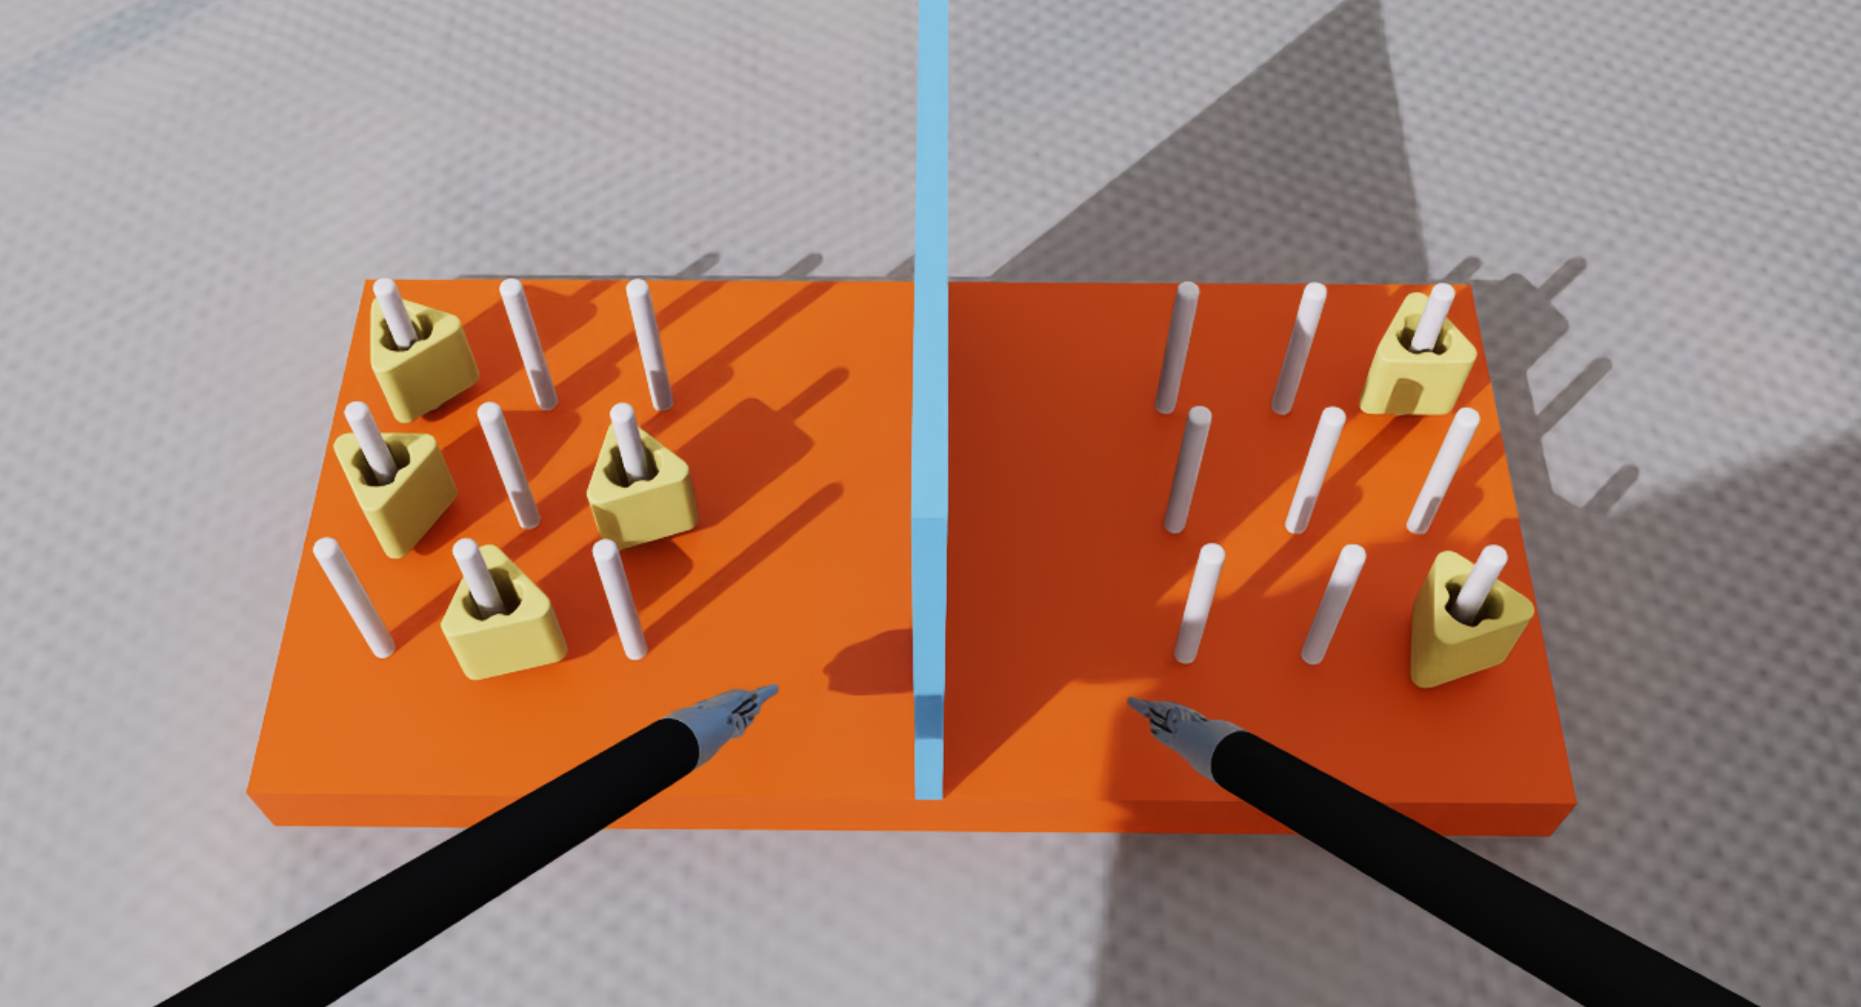
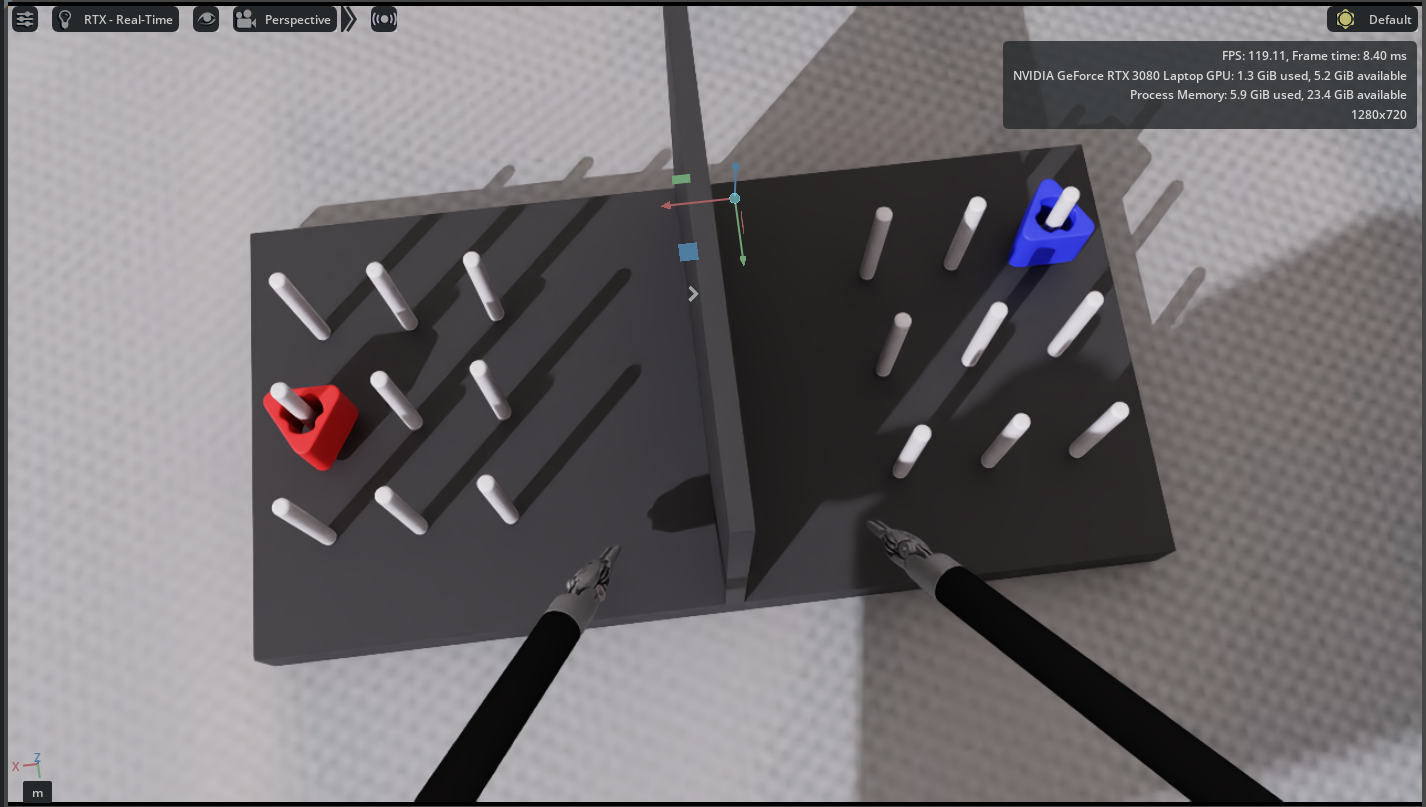
Updated README and pegboard image

diff --git a/README.md b/README.md
@@ -1,35 +1,28 @@
-# Isaac-Sim-Surgical-Robotics-Challenge-ICRA-2026
-Isaac Sim implementation of the AMBF Surgical Robotics Challenge developed by Johns Hopkins LCSR Lab.
-This implementation has been updated to Ubuntu 24.04
+# IsaacSim Surgical Robotics Challenge for ICRA 2026
 
-See: https://github.com/surgical-robotics-ai/surgical_robotics_challenge
-To find the work that this project is based on. 
+This branch contains the Isaac Sim implementation of the [AMBF Surgical Robotics Challenge](https://github.com/surgical-robotics-ai/surgical_robotics_challenge) developed by the Johns Hopkins LCSR Lab.
 
-## 1. Install AMBF, ROS2 Jazzy, and Isaac Sim
-Ensure that the correct version of ROS 2 is installed and sourced on your system. ROS2 Jazzy can be found here: 
-https://docs.ros.org/en/jazzy/Installation.html
+This implementation has been updated to use ROS2 on Ubuntu 24.04, and provides the pegboard and pegs used for the [ICRA 2026 competition](https://surgical-robotics-ai.github.io/icra-competition-2026/index.html).
 
-AMBF and directions for installation can be found here: 
-https://github.com/WPI-AIM/ambf
+## 1. Install ROS2 Jazzy and Isaac Sim
 
-Isaac Sim can be downloaded here from NVIDIA's wesbsite: 
-https://docs.isaacsim.omniverse.nvidia.com/5.1.0/index.html
+Ensure that the correct version of ROS 2 is installed and sourced on your system. ROS2 Jazzy can be found [here](https://docs.ros.org/en/jazzy/Installation.html).
 
-For additional resources, see Documents for summarized installation steps and notes for installations.
+Isaac Sim can be downloaded from [NVIDIA's website](https://docs.isaacsim.omniverse.nvidia.com/5.1.0/index.html).
 
-## 2. Clone Repository
-Refer to README in Assets and Scripts to access Isaac Sim Surgical Challenge for use
+## 2. Clone this repository
 
-## 3. Running Simulation
+Refer to README in [Assets](assets/README.md) and [Scripts](Scripts/README.md) for further information.
+
+## 3. Run the Simulation
+
 1. After installation of all prerequisite programs, open Isaac Sim version 5.1.0
-2. Navigate to file and open either version of the Surgical_Challenge_Env.usd or ICRA_Challenge.usd
-You should see one of the following scenes in the view monitor
 
-![Image](https://github.com/tkim104/Isaac-Sim-Surgical-Robotics-Challenge/blob/ros2/Media/surgical.png)
+2. Open the file `ICRA_Challenge.usd`. You should see the following scene in the view monitor:
 
 ![Image](https://github.com/tkim104/Isaac-Sim-Surgical-Robotics-Challenge/blob/ros2/Media/pegboard.png)
 
-3. Navigate to preferred ROS 2 operated controller
+3. Navigate to preferred ROS 2 operated controller (Quest for ICRA 2026 challenge)
 
 ~~~
 cd Isaac-Sim-Surgical-Robotics-Challenge/scripts/surgical_robotics_challenge/teleoperation
@@ -43,20 +36,12 @@ cd Isaac-Sim-Surgical-Robotics-Challenge/scripts/surgical_robotics_challenge/tel
 python3 [controller].py -c isaac_sim --three false
 ~~~
 
-## 4. Choosing Thread Type in Surgical Scene
-From Isaac Sim 4.0.0 and on, you are able to activate and deactivate different assets within the scene. To activate another thread in the scene, see below:
-1. Rigid Body Thread: Set Physic Scene step to 60 - 300, Activate "Needle_Thread" and deactivate others. Turn OFF GPU in physics scene.
-2. Deformable Body Thread: Set Physic Scene step to 60 (default), Activate "Needle_Deformable" and deactivate others. Turn ON GPU in physics scene.
-3. Particle Body Thread: Set Physic Scene step to 60 (default), Activate "Needle_Particle" and deactivate others. Turn ON GPU in physics scene.
+## 4. Other input devices (not available at ICRA 2026):
 
-## 5. Input Devices
-Repositories for other control devices can be found in the links below for MTM and Phantom Omni
+Repositories for other control devices can be found in the links below for MTM and Phantom Omni:
 
 **Master Tool Manipulator (MTM)**
 a. https://github.com/jhu-dvrk/dvrk-ros
 
 **Phantom Omni**
 b. https://github.com/WPI-AIM/ros_geomagic
-
-## 6. Example
-![Video](https://github.com/tkim104/Isaac-Sim-Surgical-Robotics-Challenge/blob/main/Media/ISMR25_0023_VD_i.mp4)
